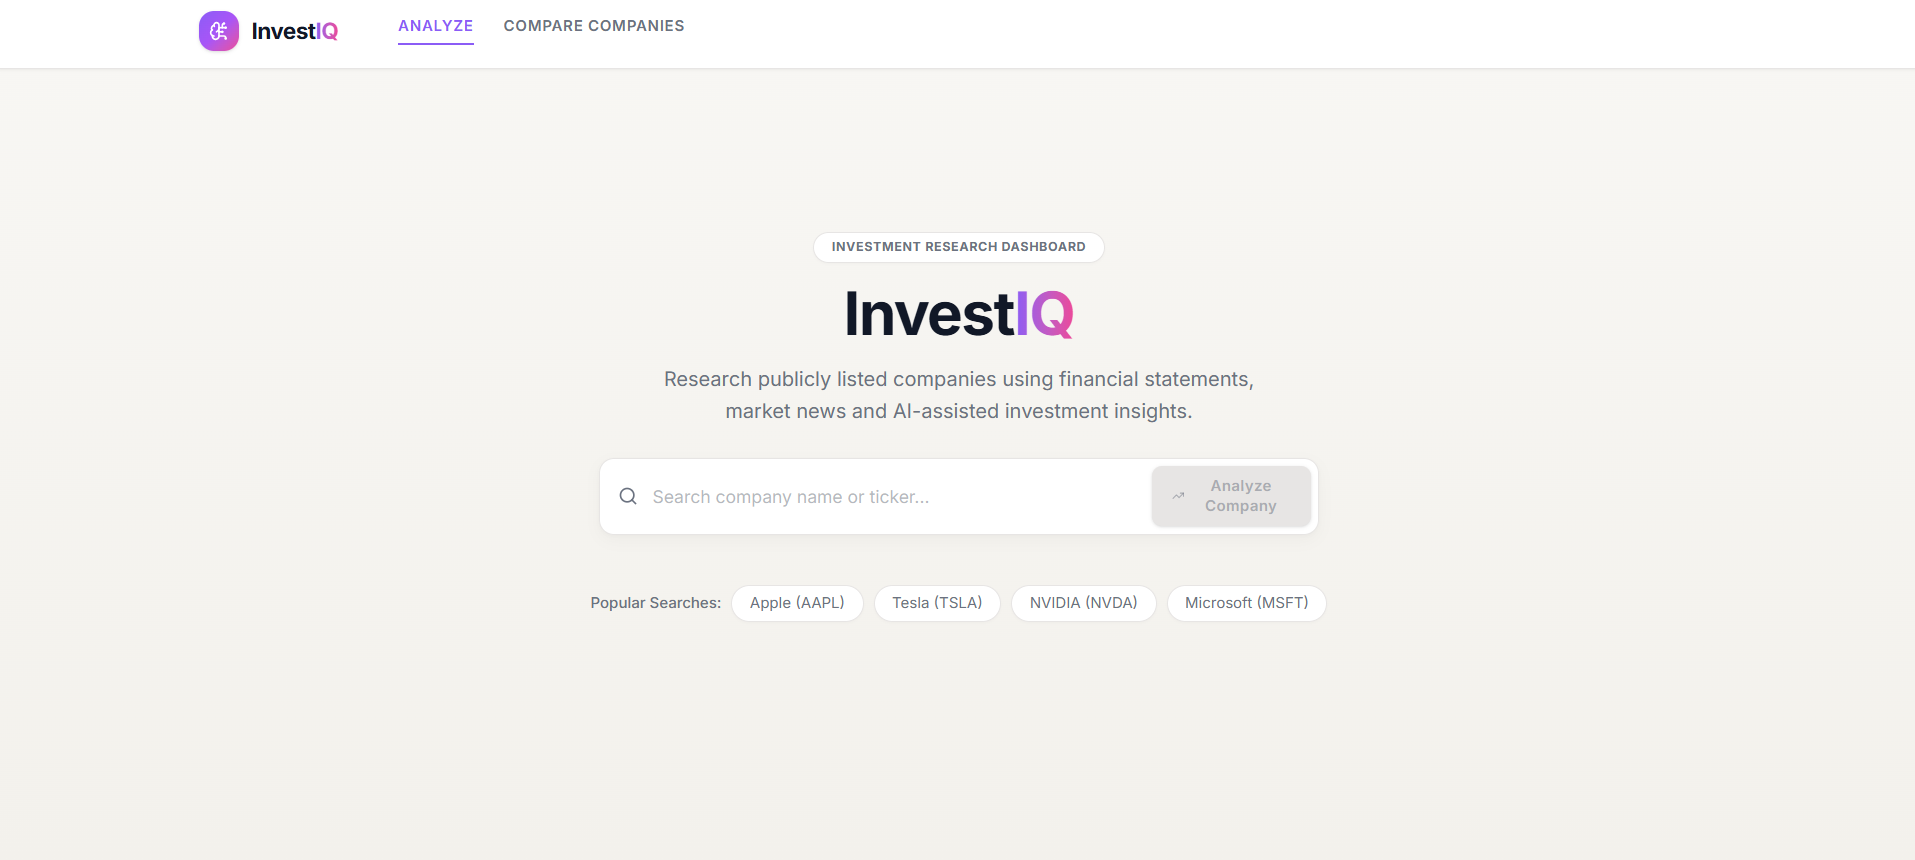
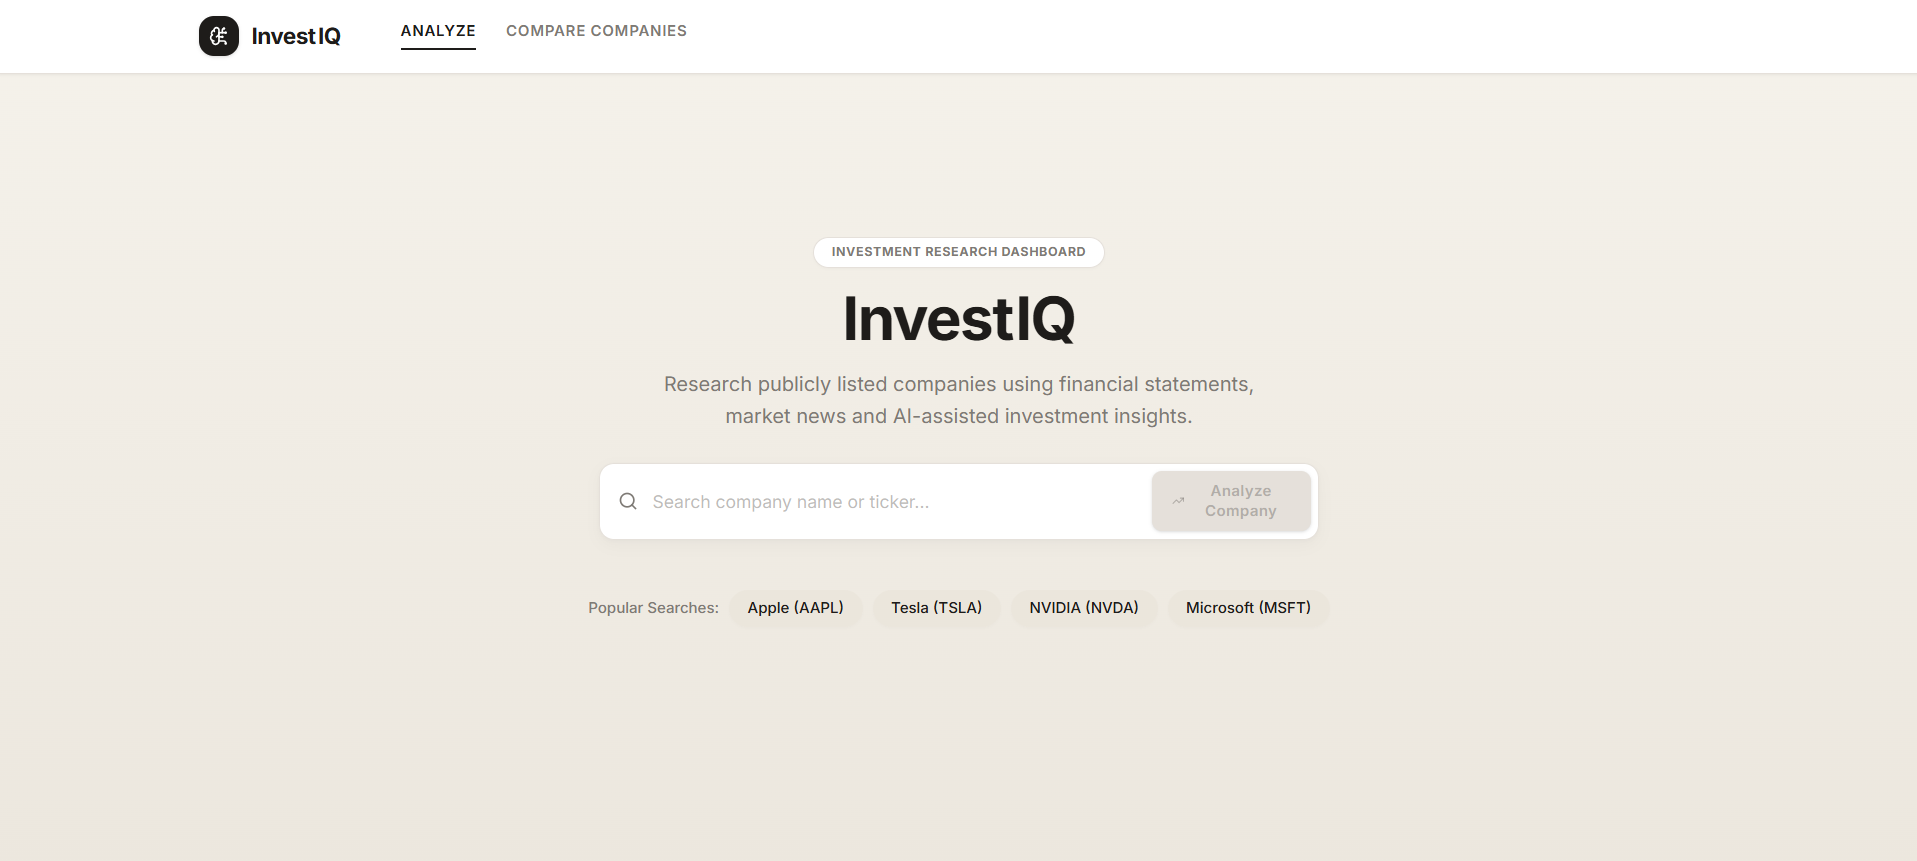
Your descriptive commit message

diff --git a/README.md b/README.md
@@ -1,7 +1,7 @@
 # 📈 InvestIQ – AI-Powered Investment Research Dashboard
 
 <p align="center">
-  <img src="/frontend/public/dashboard.png" width="100%">
+  <img src="/frontend/public/Dashboard.png" width="100%">
 </p>
 
 <div align="center">